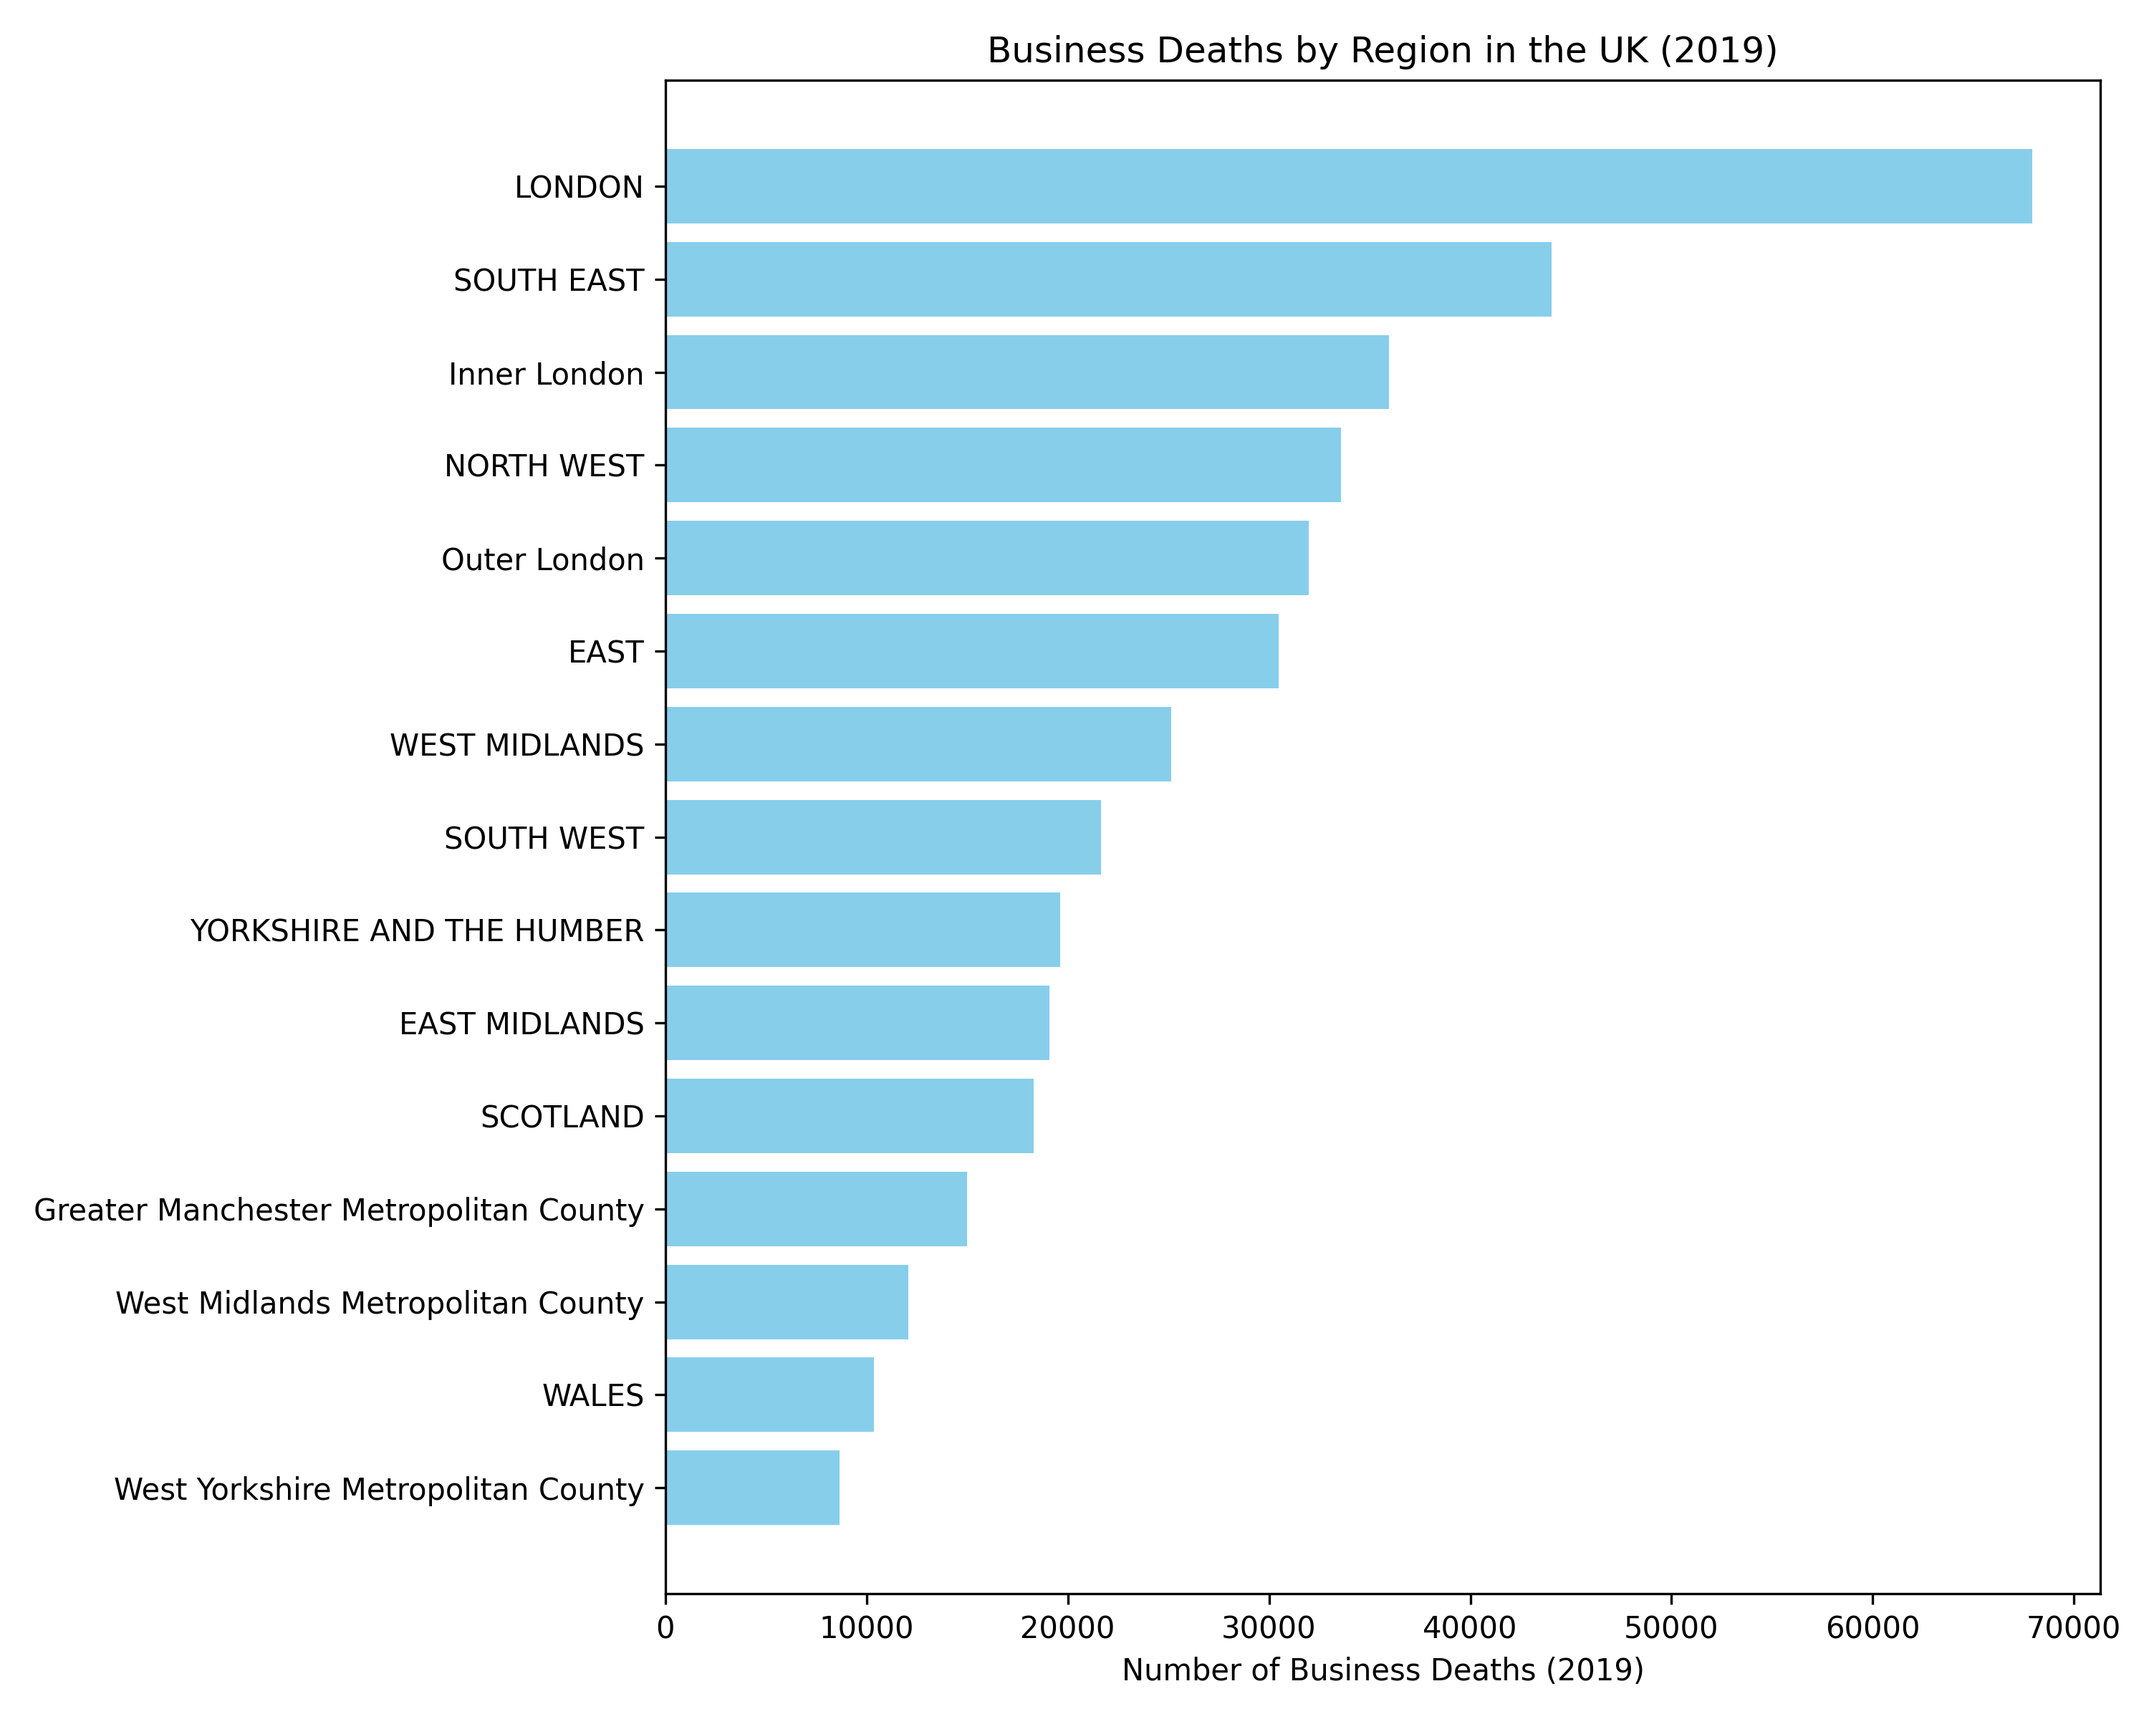
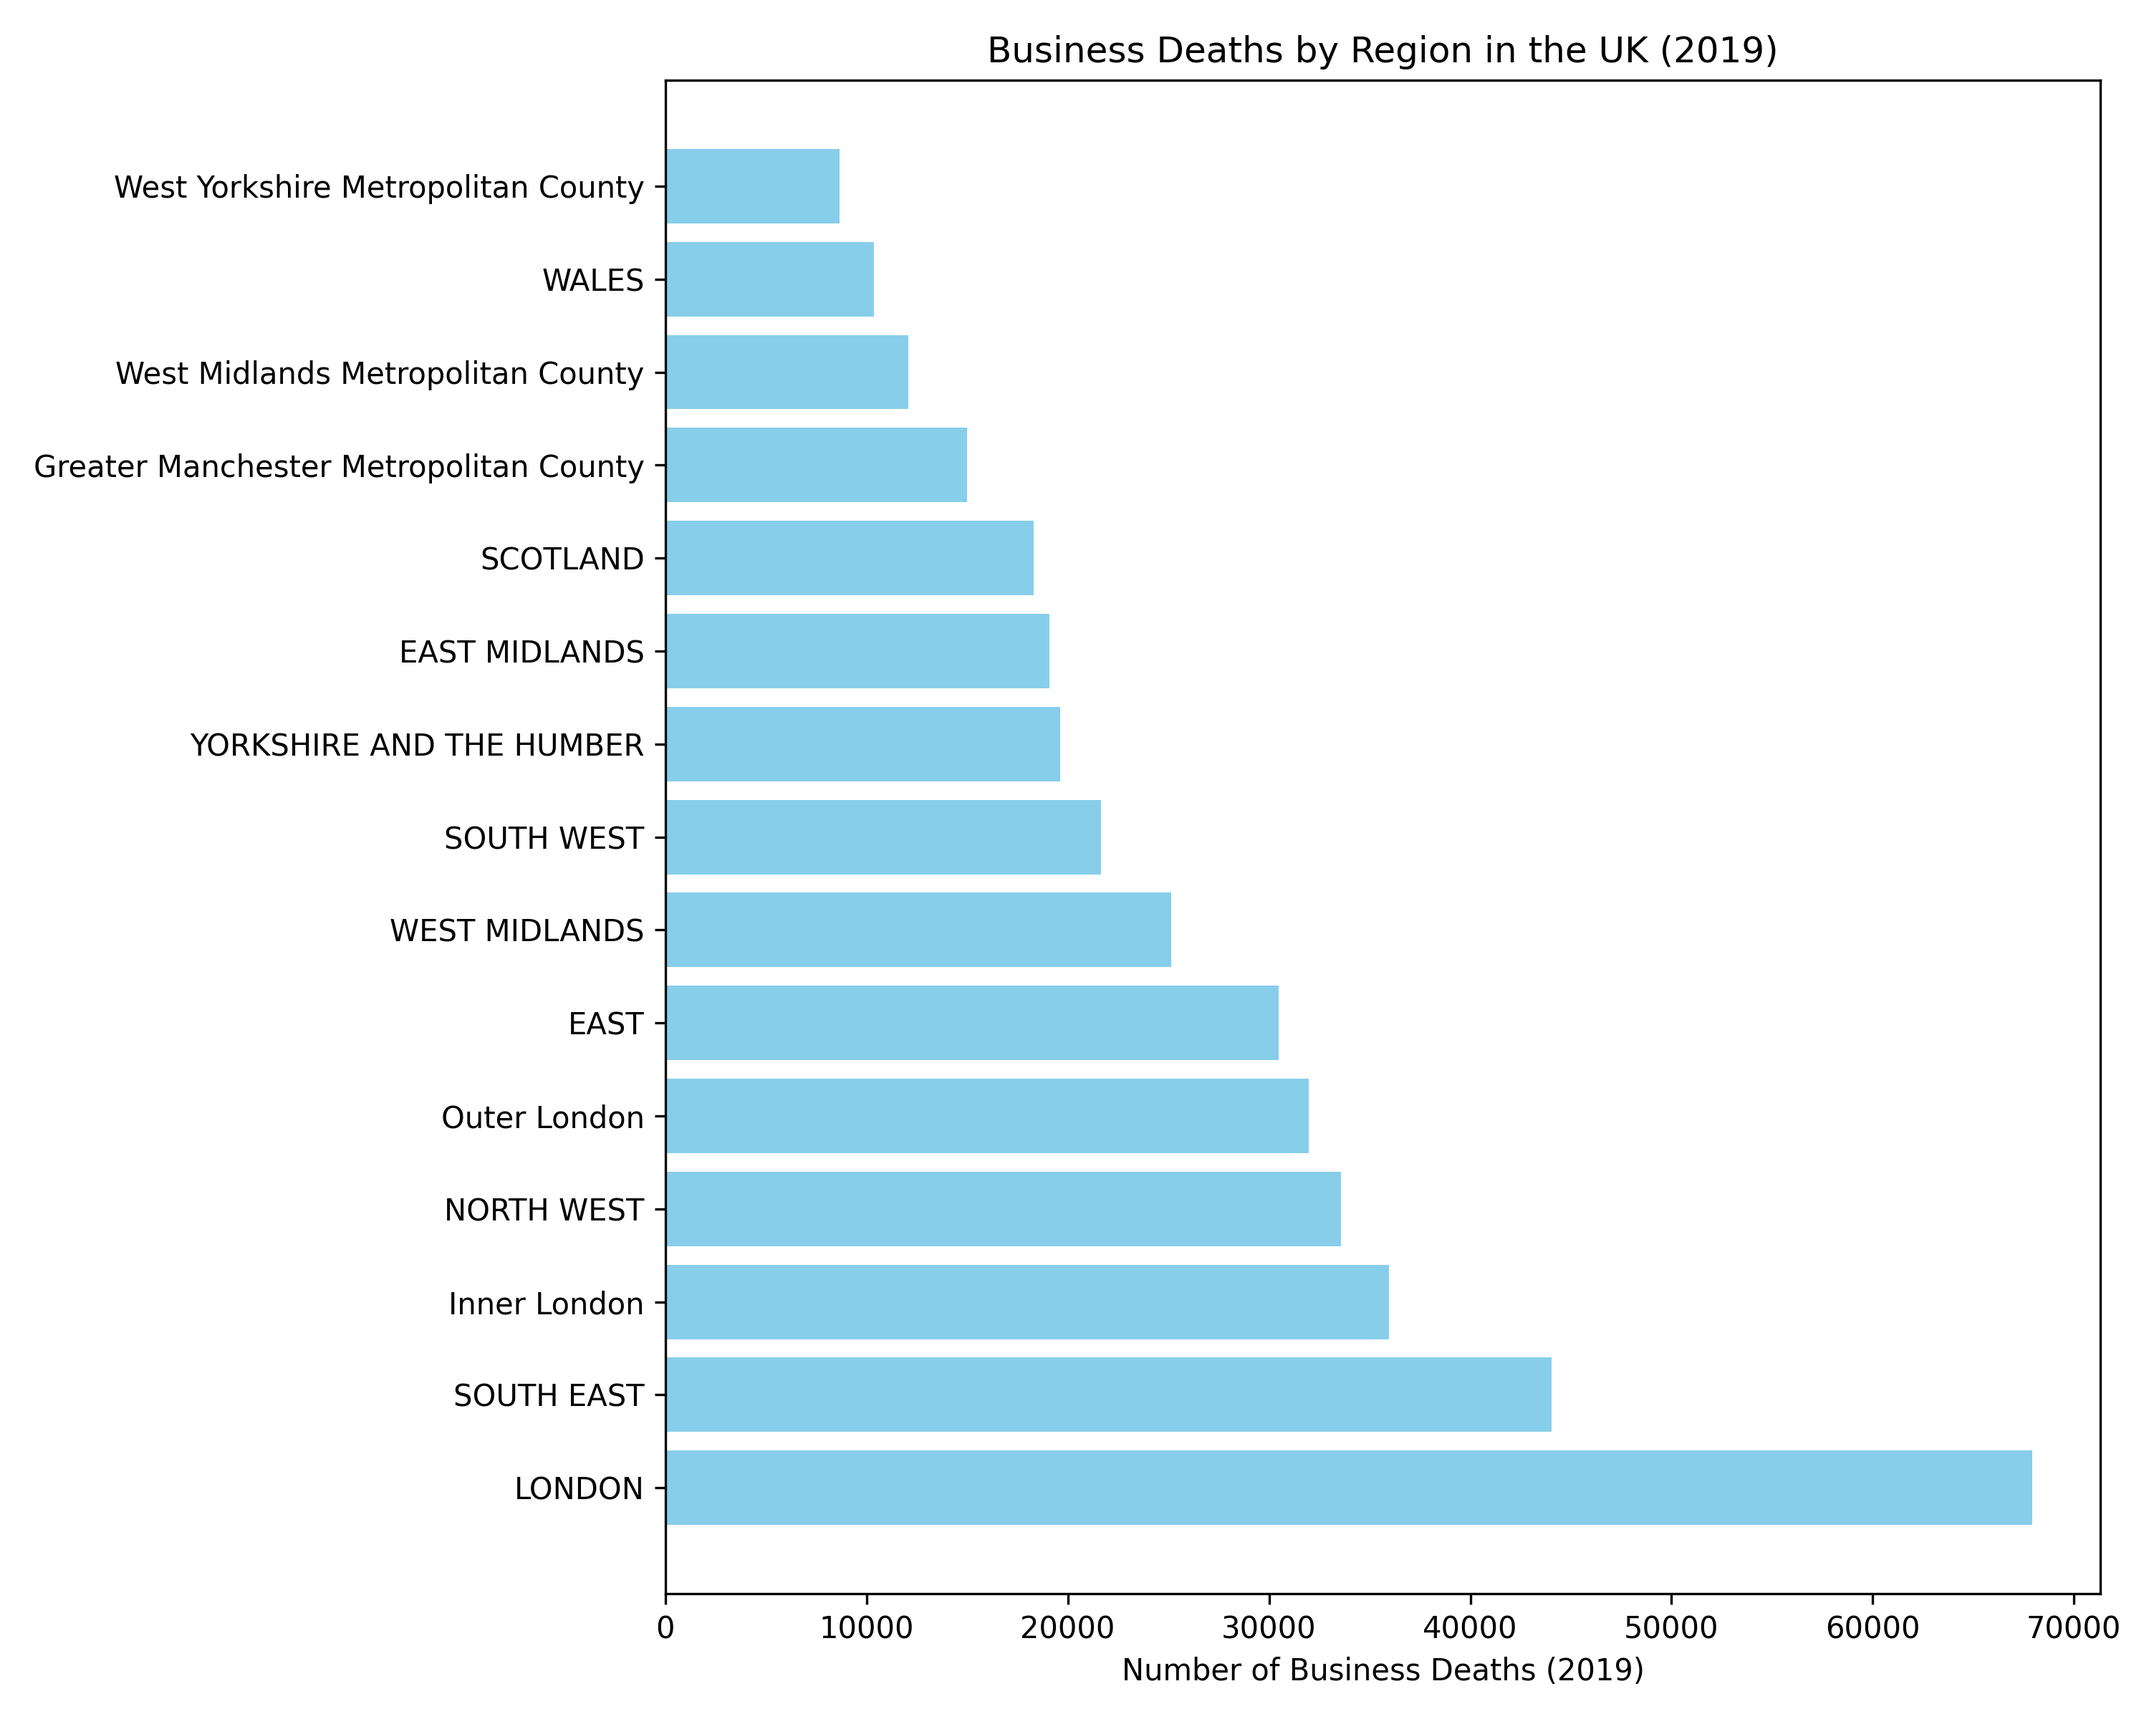
I have decided not to invert the y axis for these bar charts as I want them to be consistent with the births chart

diff --git a/plots/deaths_bar_2024.py b/plots/deaths_bar_2024.py
@@ -20,10 +20,8 @@ plt.figure(figsize=(10, 8))
 plt.barh(df["Geography Name"], df["Number of Business Deaths (2024)"], color='skyblue')
 plt.xlabel("Number of Business Deaths (2024)")
 plt.title("Business Deaths by Region in the UK (2024)")
-plt.gca().invert_yaxis()  # Invert y-axis to have the highest values at the top
 plt.tight_layout()
 
-# Save the plot
 # Save the plot
 plots = PROJECT_ROOT / "plots"
 plots.mkdir(exist_ok=True)

diff --git a/plots/deaths_bar_2019.py b/plots/deaths_bar_2019.py
@@ -20,7 +20,6 @@ plt.figure(figsize=(10, 8))
 plt.barh(df["Geography Name"], df["Number of Business Deaths (2019)"], color='skyblue')
 plt.xlabel("Number of Business Deaths (2019)")
 plt.title("Business Deaths by Region in the UK (2019)")
-plt.gca().invert_yaxis()  # Invert y-axis to have the highest values at the top
 plt.tight_layout()
 
 # Save the plot
